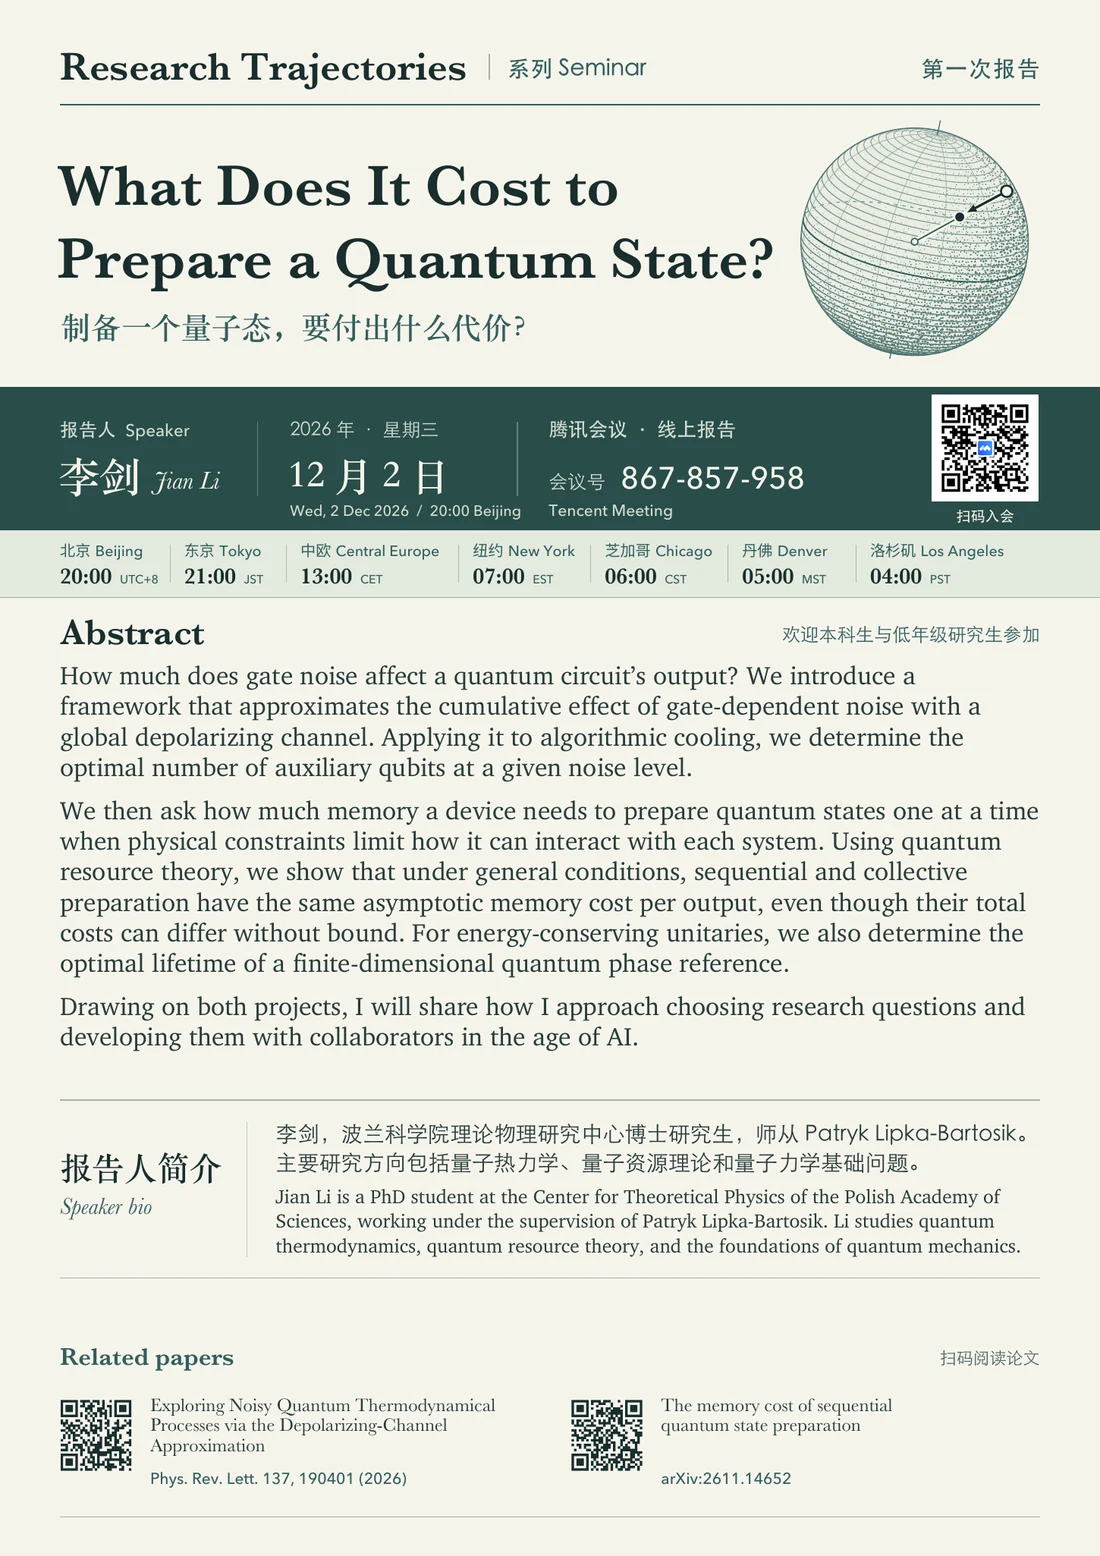
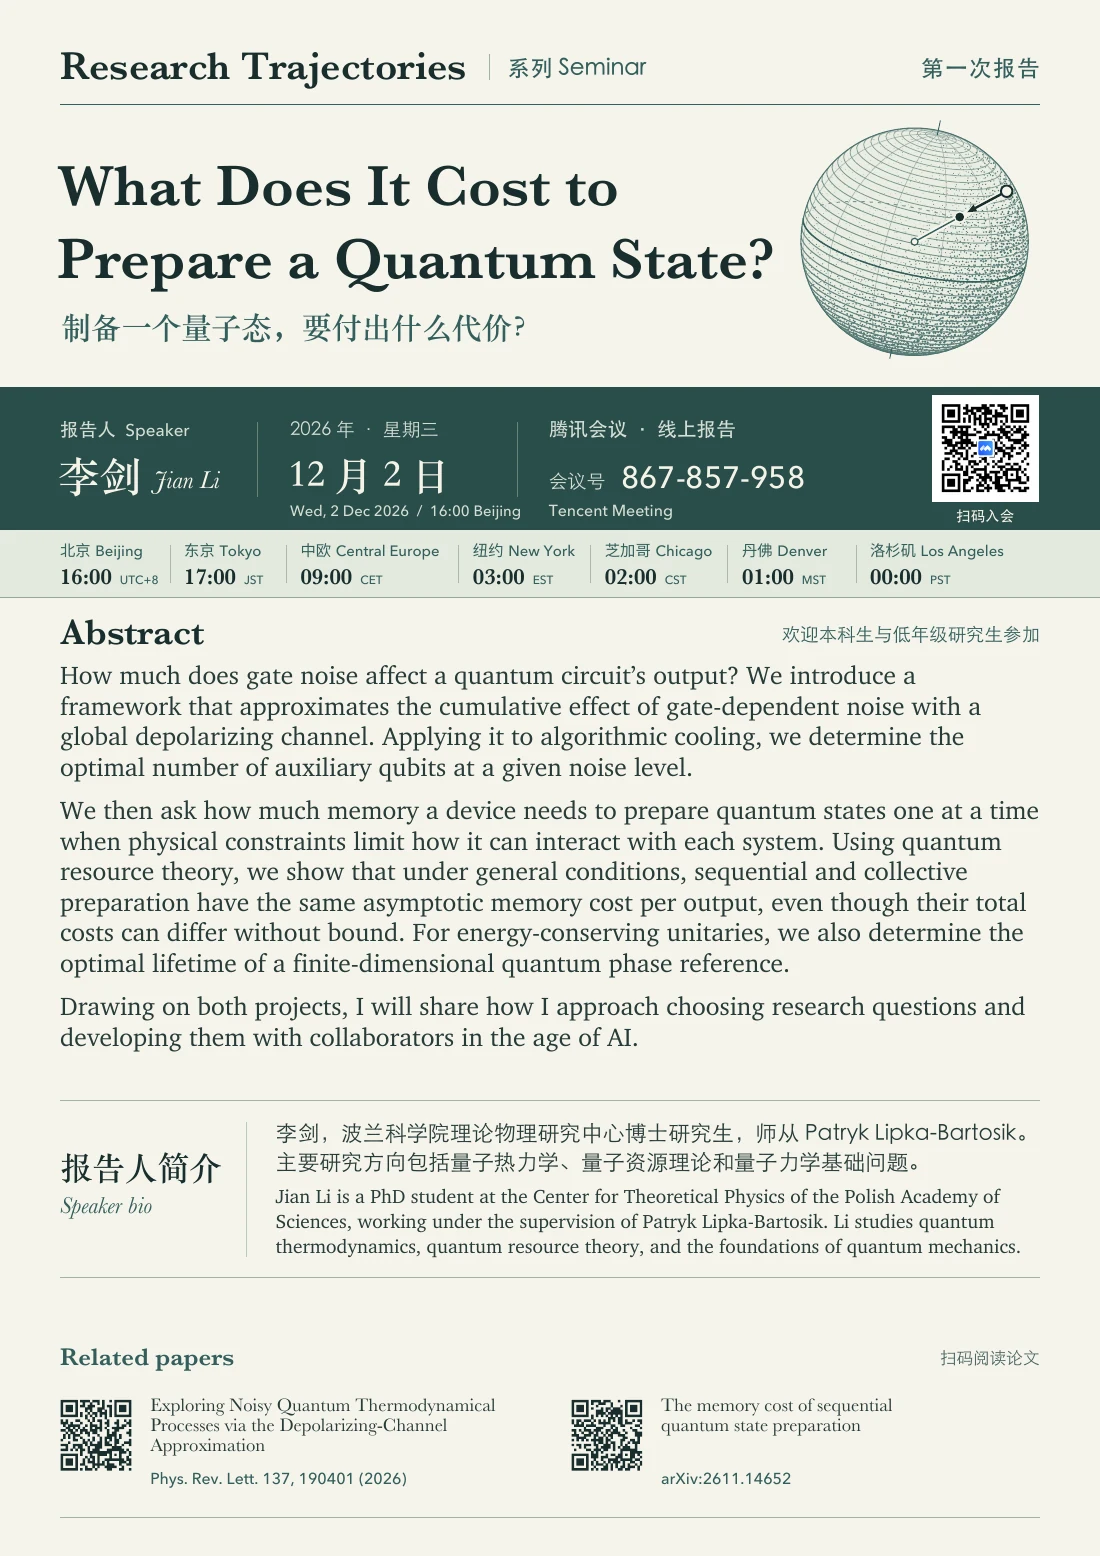
Move the inaugural seminar to 16:00 Beijing and update both poster formats

diff --git a/app/Seminars.tsx b/app/Seminars.tsx
@@ -27,7 +27,7 @@ const spyc = {
 const talks: Talk[] = [{
   id: "rt-01-jian-li",
   date: "2026-12-02",
-  startsAt: "2026-12-02T20:00:00+08:00",
+  startsAt: "2026-12-02T16:00:00+08:00",
   title: { en: "What Does It Cost to Prepare a Quantum State?", zh: "制备一个量子态，要付出什么代价？" },
   speaker: { en: "Jian Li", zh: "李剑" },
   affiliation: { en: "Center for Theoretical Physics of the Polish Academy of Sciences", zh: "波兰科学院理论物理研究中心" },
@@ -47,7 +47,7 @@ const talks: Talk[] = [{
     en: "Jian Li is a PhD student at the Center for Theoretical Physics of the Polish Academy of Sciences, supervised by Patryk Lipka-Bartosik. Li studies quantum thermodynamics, quantum resource theory, and the foundations of quantum mechanics.",
     zh: "李剑是波兰科学院理论物理研究中心的博士研究生，师从 Patryk Lipka-Bartosik。主要研究方向包括量子热力学、量子资源理论和量子力学基础问题。",
   },
-  poster: { pdf: "./rt-01-jian-li.pdf", preview: "./rt-01-jian-li.webp" },
+  poster: { pdf: "./rt-01-jian-li.pdf?v=1600", preview: "./rt-01-jian-li.webp?v=1600" },
   meeting: {
     platform: { en: "Tencent Meeting", zh: "腾讯会议" },
     id: "867-857-958", url: "https://meeting.tencent.com/dm/60TWV23RhwBk?meeting_open_type=1&source=1",
